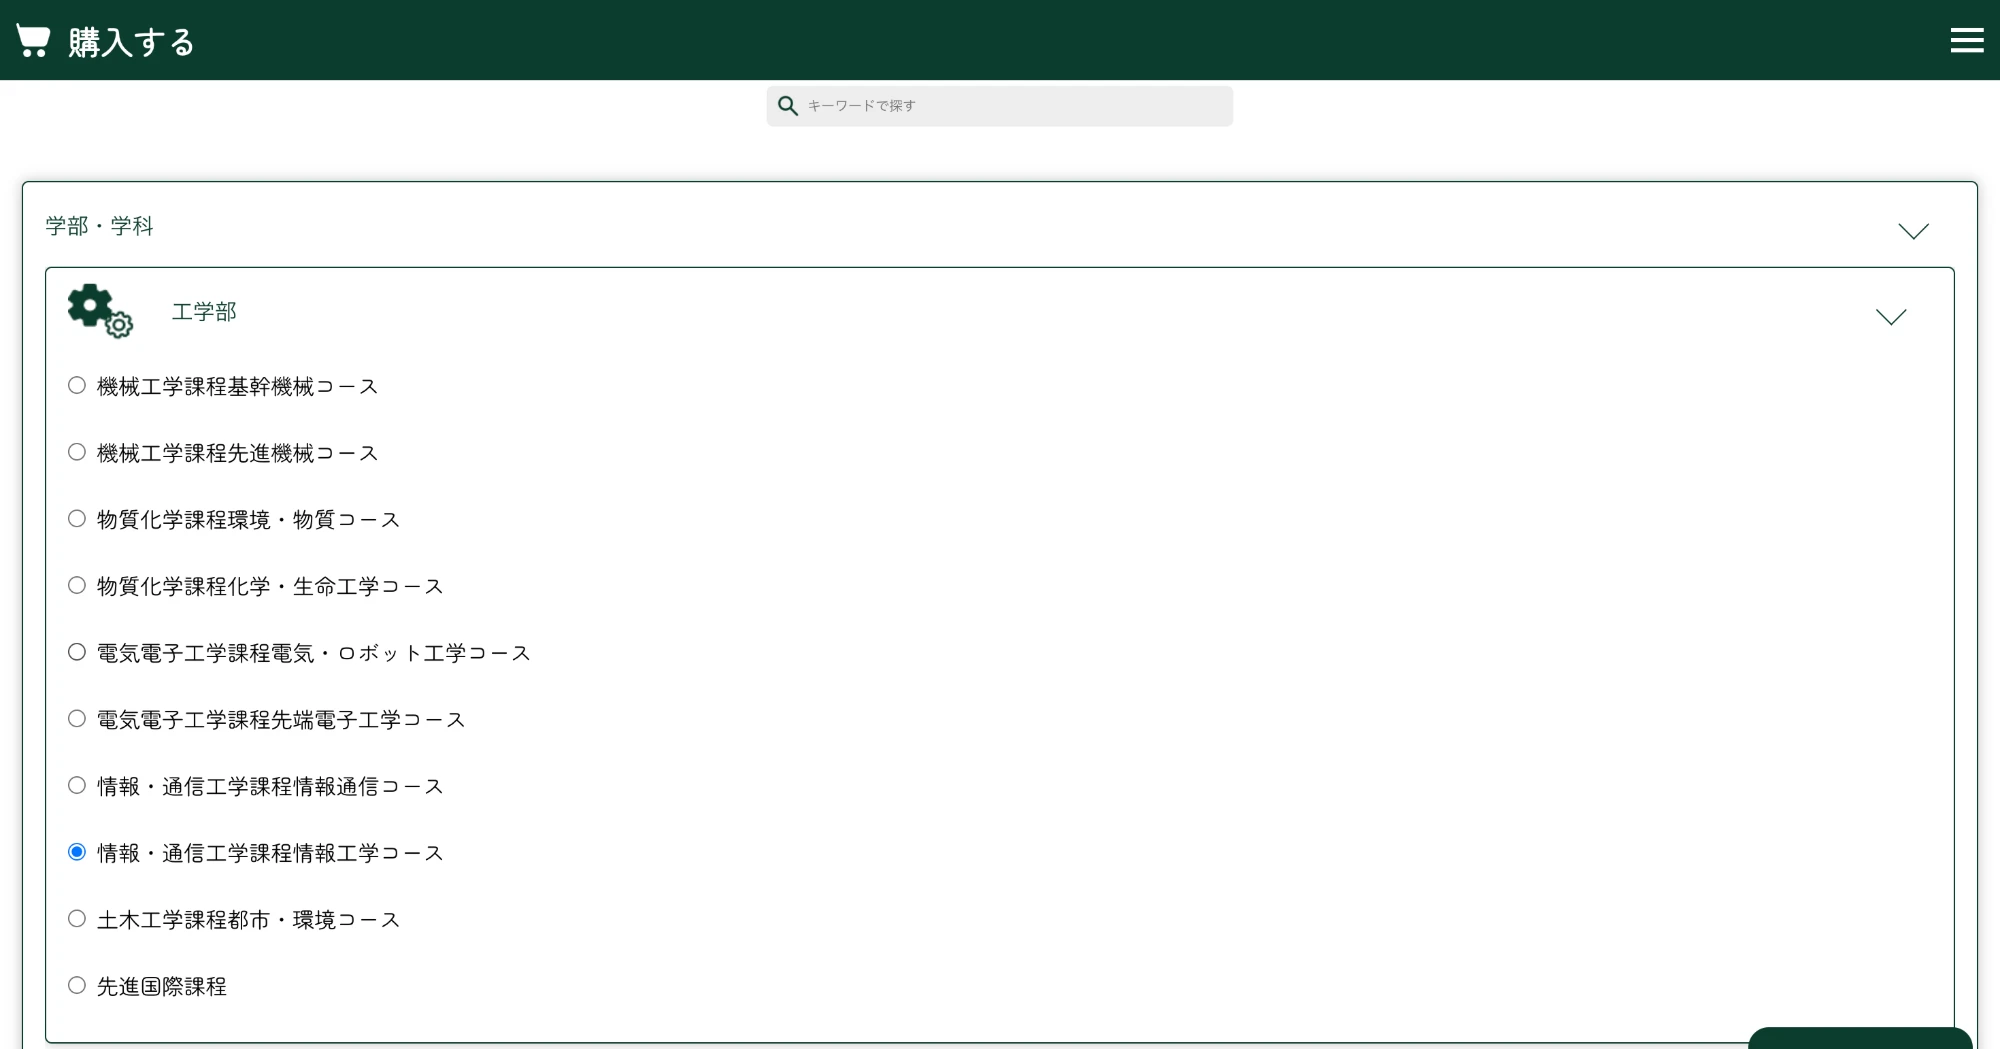
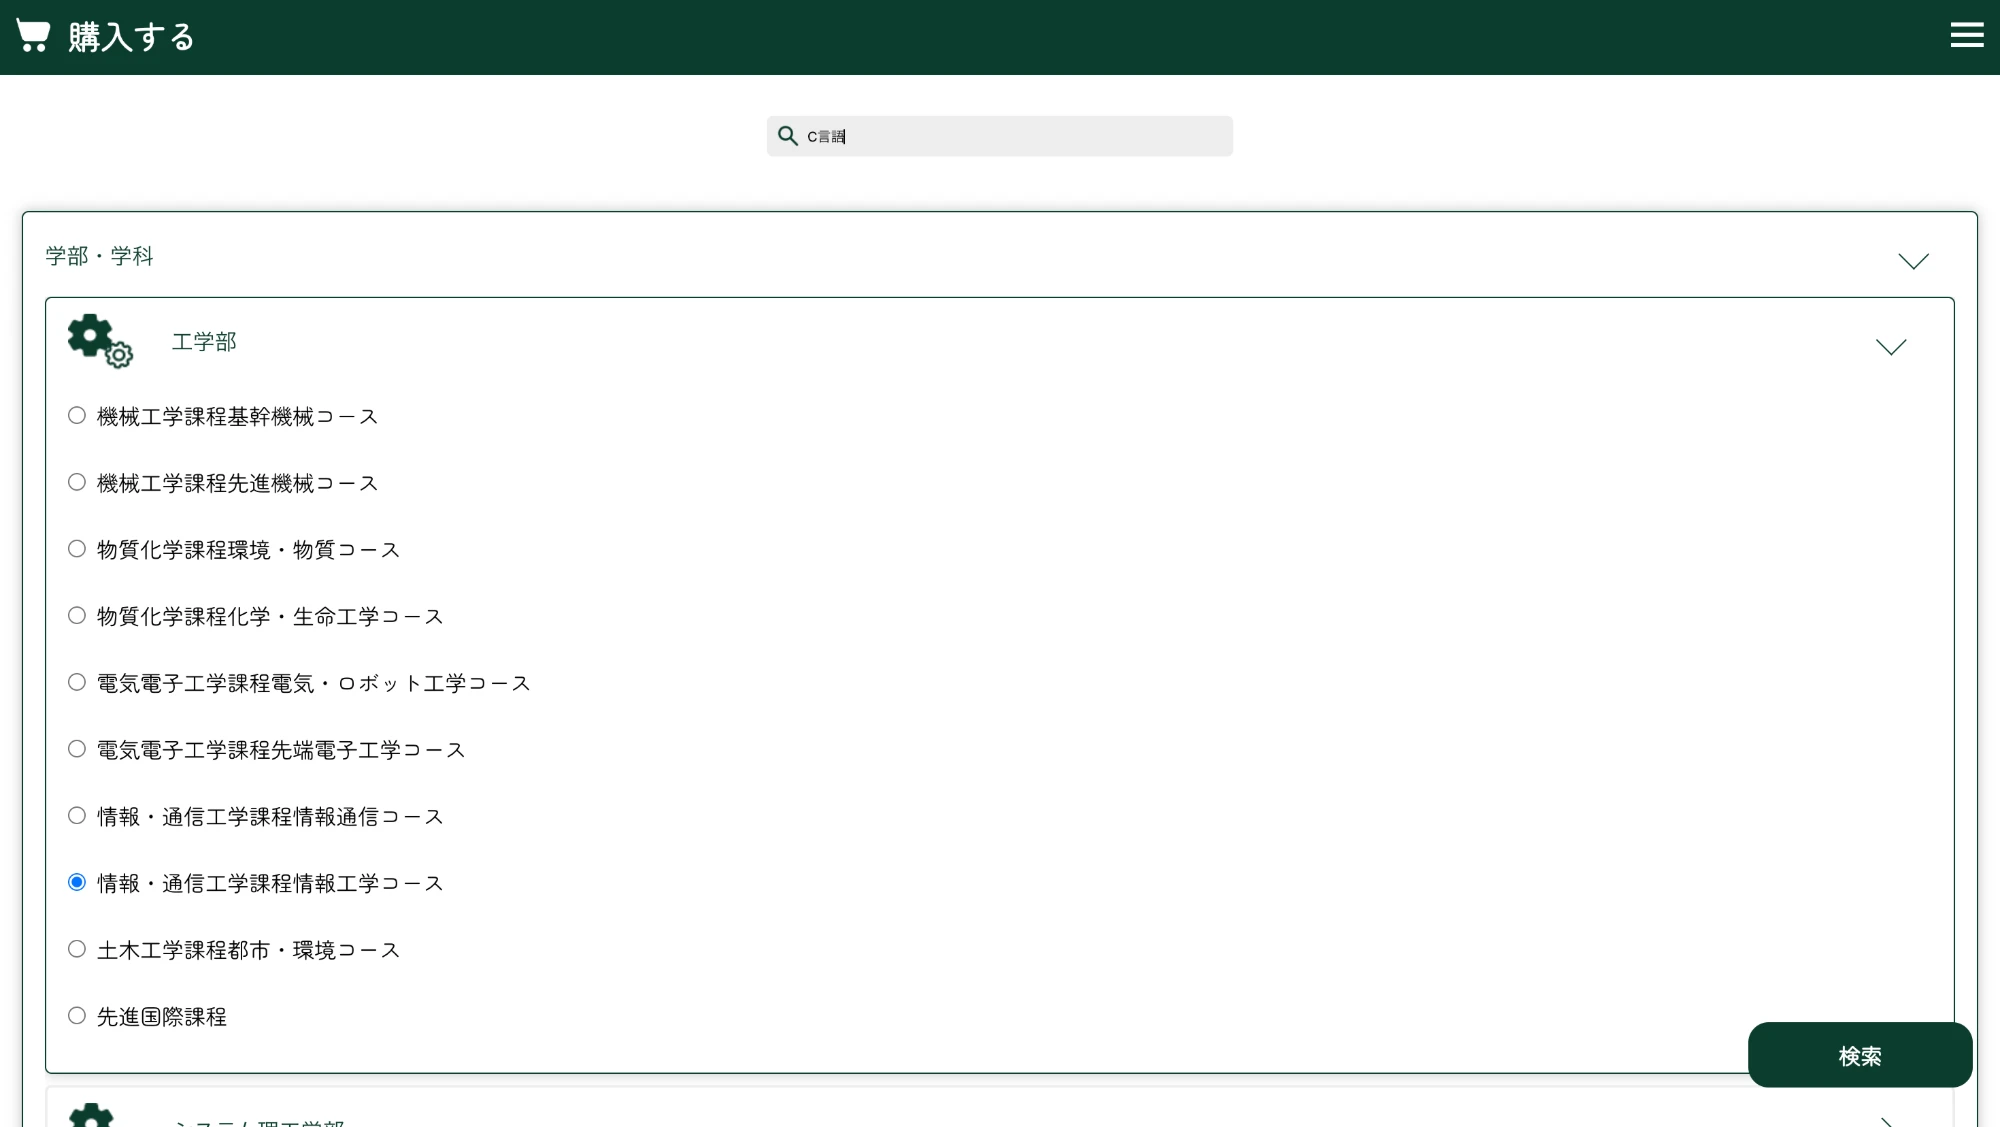
docs: README の絞り込み画面を差し替え、出品画面を追加
Claude-Session: https://claude.ai/code/session_01Df148YDqaZTuysFAhdNYbh

Changed region(s): [[0.0, 0.1525, 0.992, 1.0], [0.0, 0.0, 1.0, 0.122]]

diff --git a/README.md b/README.md
@@ -40,20 +40,20 @@
     <td width="50%"><img src="docs/screenshots/4-results.webp" width="420" alt="検索結果の一覧"></td>
   </tr>
   <tr>
-    <td>授業の教科書は学科ごとに決まっているので、自分のコースを選ぶだけで候補が絞れる</td>
+    <td>キーワードと組み合わせて、自分のコースを選ぶだけで候補が絞れる（授業の教科書は学科ごとに決まっているため）</td>
     <td>選んだ条件と、該当する教科書が並ぶ。条件は URL に保存され、詳細から戻っても消えない</td>
   </tr>
   <tr>
     <th>5. 商品の詳細</th>
-    <th></th>
+    <th>6. 出品する</th>
   </tr>
   <tr>
     <td width="50%"><img src="docs/screenshots/5-detail.webp" width="420" alt="商品詳細画面"></td>
-    <td></td>
+    <td width="50%"><img src="docs/screenshots/6-sell.webp" width="420" alt="出品画面"></td>
   </tr>
   <tr>
     <td>価格・画像に加えて、出品者が「どの授業で使ったか」を書ける</td>
-    <td></td>
+    <td>科目・使用したコース・学期を選んで出品する。ここで選んだ内容が、検索の絞り込みに使われる</td>
   </tr>
 </table>
 
